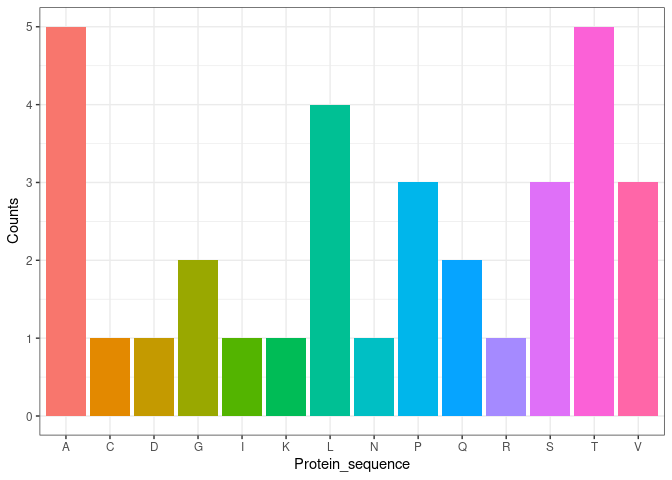
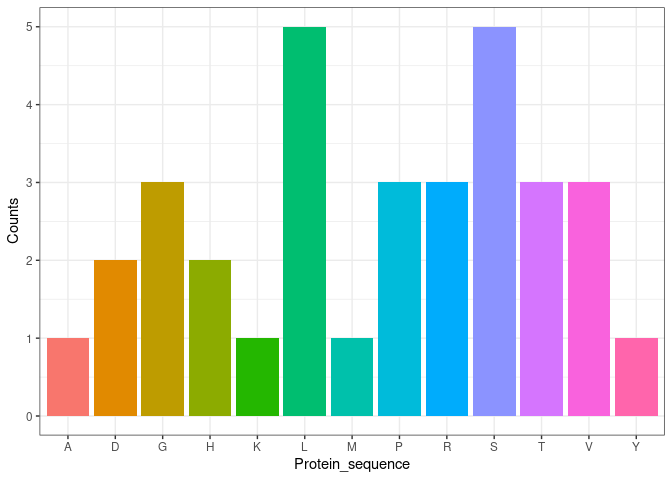
Adding link to repository s196769

diff --git a/README.md b/README.md
@@ -3,6 +3,9 @@ centraldogma
 
 <!-- README.md is generated from README.Rmd. Please edit that file -->
 
+Link to group 21 repository:
+<https://github.com/rforbiodatascience24/group_21_package/tree/master>
+
 ## Overview
 
 The **centraldogma** package enables you to simulate and process DNA
@@ -21,7 +24,7 @@ and returns a random DNA sequence.
 sequence_length <- 100
 dna_sequence <- generate_sequence(sequence_length)
 dna_sequence
-#> [1] "AGCACTGCGACACTAGCCGCCTCGCAGGATGTTGTCAGAGGACTCACTTGTATACAACCTAACGCGACCGTCACCCTGCCAGCTGGGTTGCCTTCCAAAG"
+#> [1] "GTTAGCCCGTCTTTAGGGAAGCTAGTTCACTCGCTTCCAATGAGACGGGGGGCTCTGGTAAGGTACGATAGCACACATACGCCGACAGGTTCGGATTTGG"
 ```
 
 ### Step 2: Transcription - Converting DNA to RNA
@@ -33,7 +36,7 @@ sequence by replacing thymine (T) with uracil (U).
 # Transcribe the DNA sequence to RNA
 rna_sequence <- transcription(dna_sequence)
 rna_sequence
-#> [1] "AGCACUGCGACACUAGCCGCCUCGCAGGAUGUUGUCAGAGGACUCACUUGUAUACAACCUAACGCGACCGUCACCCUGCCAGCUGGGUUGCCUUCCAAAG"
+#> [1] "GUUAGCCCGUCUUUAGGGAAGCUAGUUCACUCGCUUCCAAUGAGACGGGGGGCUCUGGUAAGGUACGAUAGCACACAUACGCCGACAGGUUCGGAUUUGG"
 ```
 
 ### Step 3: Convert RNA to Codons
@@ -46,9 +49,9 @@ first position.
 # Convert RNA sequence to codons
 codons <- RNA_to_codon(rna_sequence)
 codons
-#>  [1] "AGC" "ACU" "GCG" "ACA" "CUA" "GCC" "GCC" "UCG" "CAG" "GAU" "GUU" "GUC"
-#> [13] "AGA" "GGA" "CUC" "ACU" "UGU" "AUA" "CAA" "CCU" "AAC" "GCG" "ACC" "GUC"
-#> [25] "ACC" "CUG" "CCA" "GCU" "GGG" "UUG" "CCU" "UCC" "AAA"
+#>  [1] "GUU" "AGC" "CCG" "UCU" "UUA" "GGG" "AAG" "CUA" "GUU" "CAC" "UCG" "CUU"
+#> [13] "CCA" "AUG" "AGA" "CGG" "GGG" "GCU" "CUG" "GUA" "AGG" "UAC" "GAU" "AGC"
+#> [25] "ACA" "CAU" "ACG" "CCG" "ACA" "GGU" "UCG" "GAU" "UUG"
 ```
 
 ### Step 4: Translate Codons to Amino Acids
@@ -61,7 +64,7 @@ amino acids. This function requires a predefined **codon table** named
 # Translate codons to amino acid sequence
 amino_acid_sequence <- aa_sequence(codons)
 amino_acid_sequence
-#> [1] "STATLAASQDVVRGLTCIQPNATVTLPAGLPSK"
+#> [1] "VSPSLGKLVHSLPMRRGALVRYDSTHTPTGSDL"
 ```
 
 ### Step 5: Visualize Amino Acid Counts
